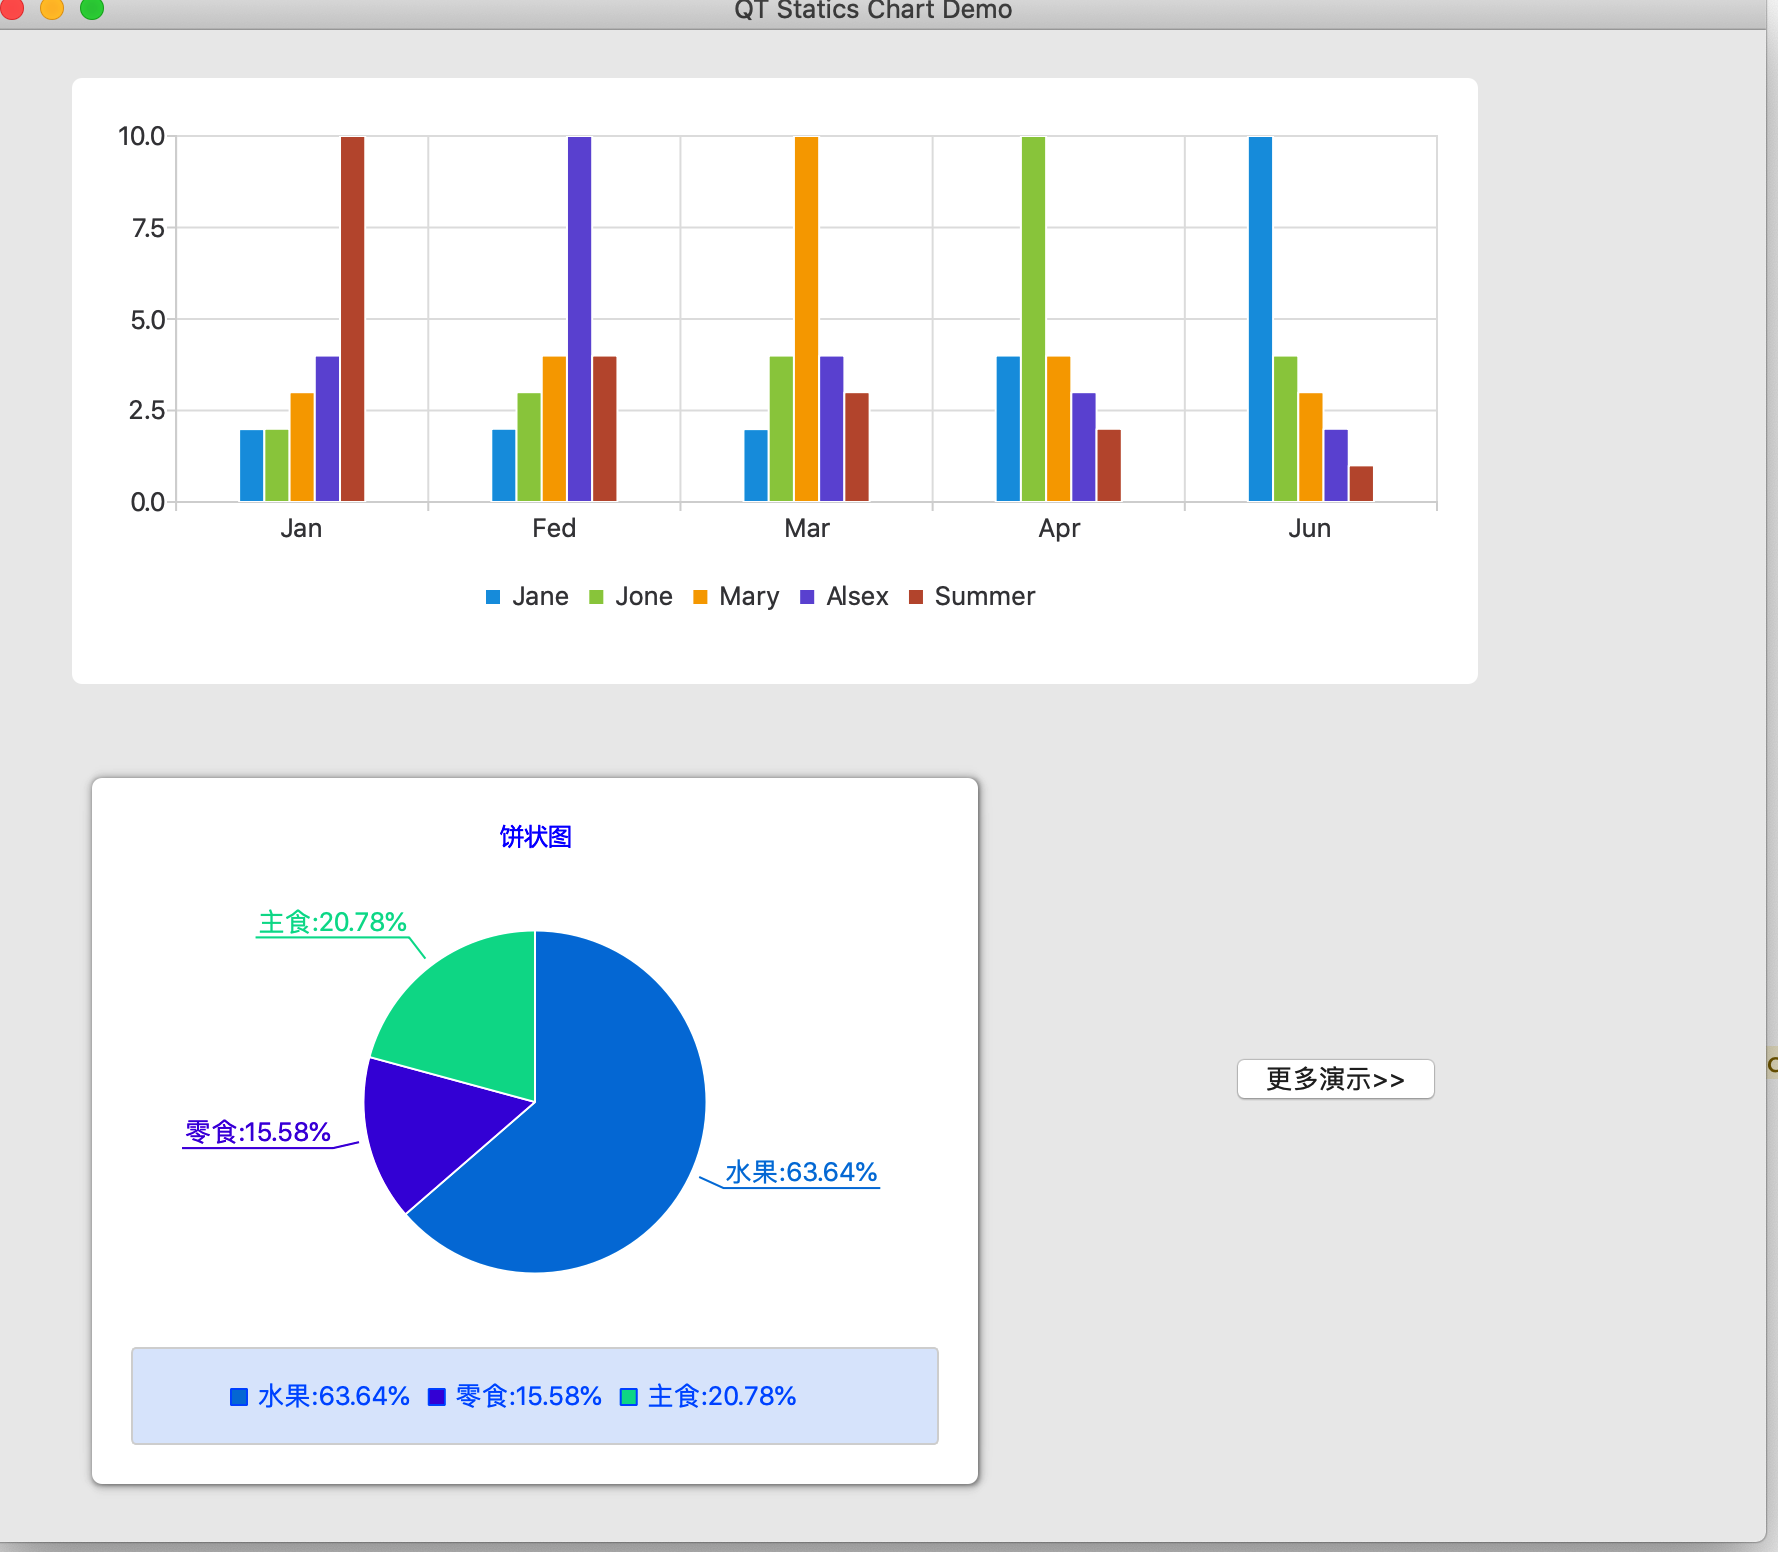
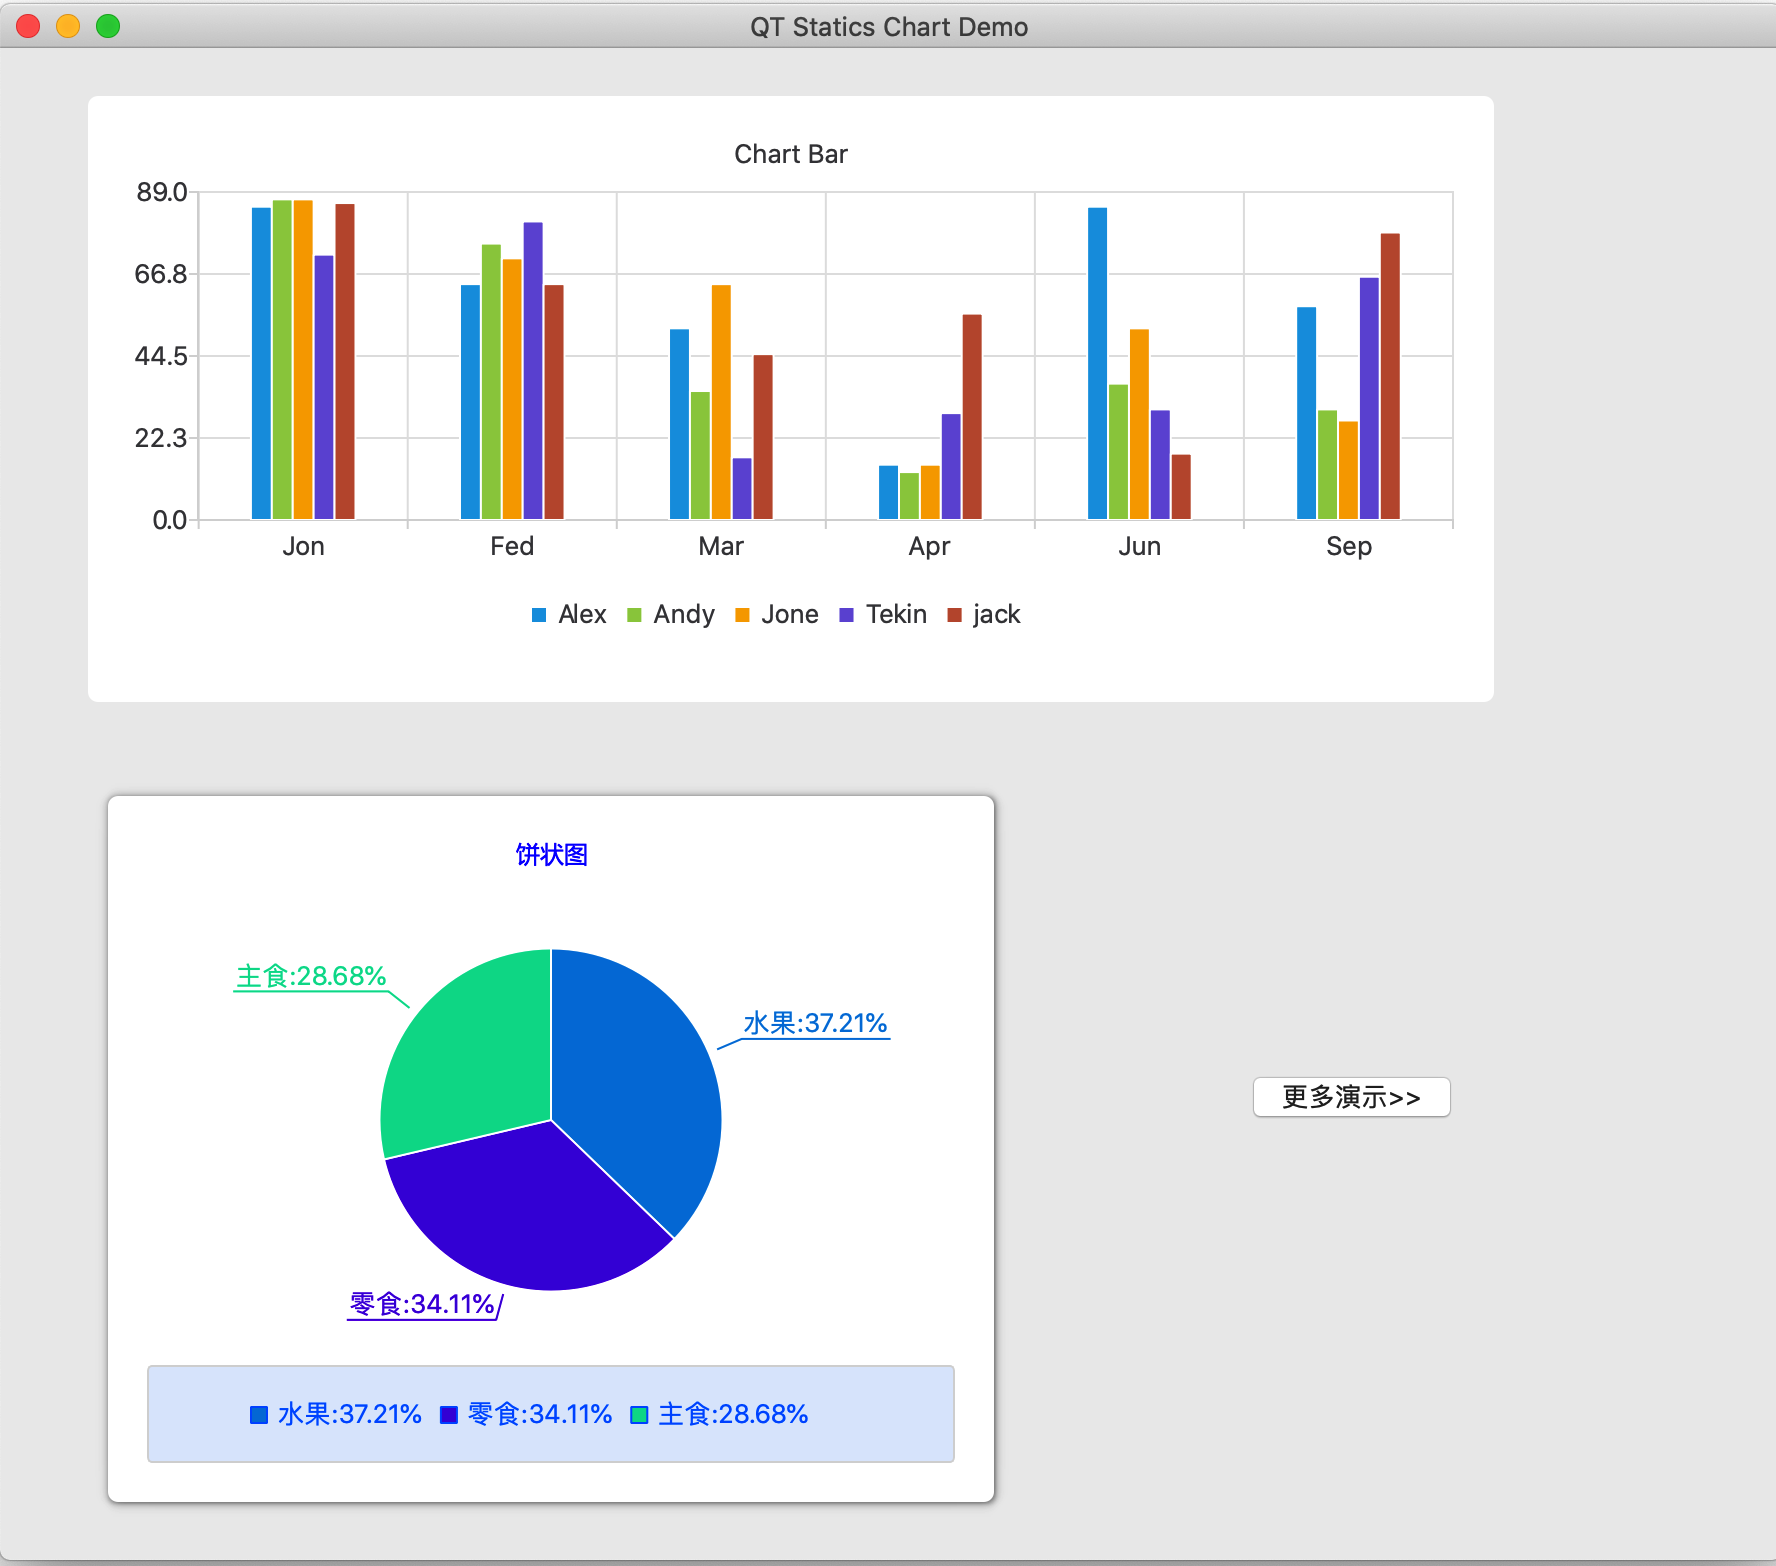
docs add

diff --git a/README.md b/README.md
@@ -6,6 +6,10 @@ qt statistics chart demo, include  pies chart , line chart, spline chart  and ba
 
 
 
+Dynamic   update the data and chart  
+
+
+
 ![](./docs/widget.png)
 
 
